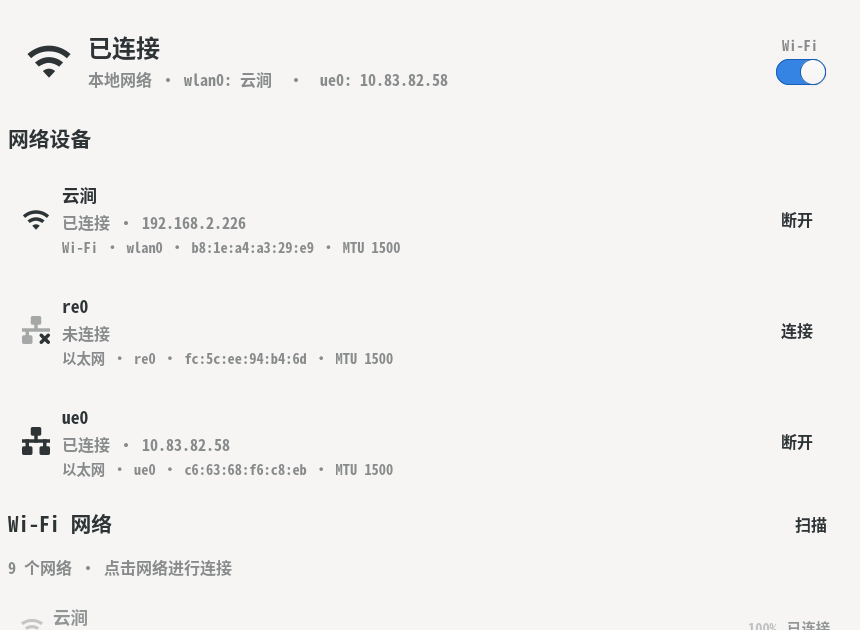
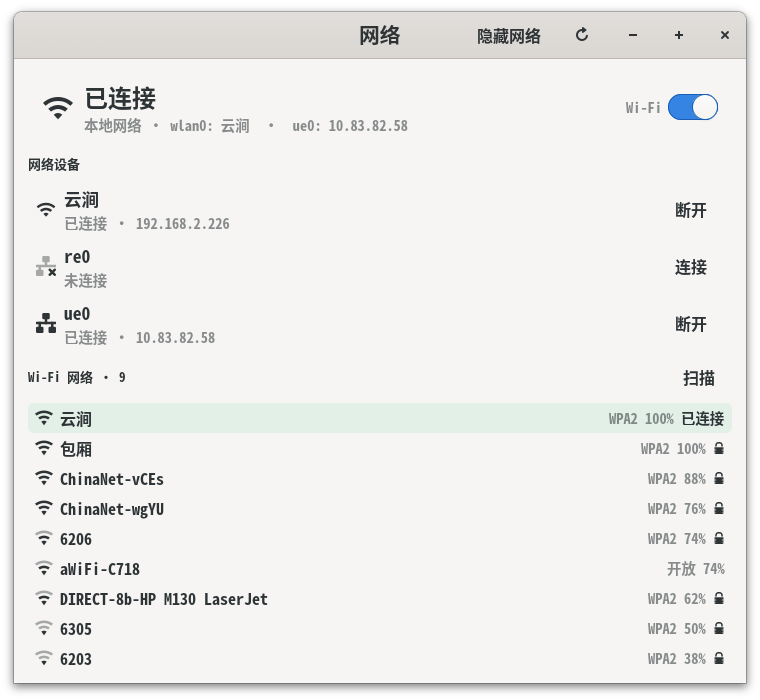
Compact GTK4 layout and refresh screenshot

diff --git a/crates/netcore-gui/src/app.rs b/crates/netcore-gui/src/app.rs
@@ -21,10 +21,13 @@ use tokio::sync::mpsc::UnboundedSender;
 use crate::client::{self, Request, UiEvent};
 
 const CSS: &str = "
-.netcore-hero { padding: 18px; }
-.netcore-device { padding: 14px; }
-.netcore-network-row { padding: 10px 12px; border-radius: 10px; }
-.netcore-banner { padding: 10px 12px; }
+.netcore-hero { padding: 10px 14px; }
+.netcore-device { padding: 4px 8px; border-radius: 8px; }
+.netcore-network-row { padding: 2px 6px; border-radius: 6px; min-height: 0; }
+.netcore-section-title { font-size: 13px; font-weight: bold; }
+.netcore-network-ssid { font-weight: 500; }
+.netcore-current { background-color: alpha(#2ec27e, 0.10); }
+.netcore-banner { padding: 6px 10px; }
 .netcore-banner-error { background-color: alpha(#e01b24, 0.16); }
 .netcore-banner-success { background-color: alpha(#2ec27e, 0.18); }
 ";
@@ -41,13 +44,13 @@ struct AppState {
 struct Ui {
     window: ApplicationWindow,
     scrolled: ScrolledWindow,
-    header_subtitle: Label,
     hero_icon: Image,
     hero_title: Label,
     hero_detail: Label,
     hero_spinner: Spinner,
     wifi_switch: gtk::Switch,
     devices_box: GtkBox,
+    wifi_title: Label,
     wifi_box: GtkBox,
     wifi_hint: Label,
     scan_button: Button,
@@ -79,22 +82,14 @@ fn build_window(application: &Application, bus: BusKind) {
     let window = ApplicationWindow::builder()
         .application(application)
         .title("网络")
-        .default_width(880)
-        .default_height(780)
+        .default_width(760)
+        .default_height(700)
         .build();
 
     let header = HeaderBar::new();
-    let title_box = GtkBox::new(Orientation::Vertical, 0);
     let title = Label::new(Some("网络"));
     title.add_css_class("title-4");
-    title.set_xalign(0.0);
-    let subtitle = Label::new(Some("正在连接 netcore…"));
-    subtitle.add_css_class("dim-label");
-    subtitle.add_css_class("caption");
-    subtitle.set_xalign(0.0);
-    title_box.append(&title);
-    title_box.append(&subtitle);
-    header.set_title_widget(Some(&title_box));
+    header.set_title_widget(Some(&title));
 
     let refresh_button = icon_button("view-refresh-symbolic", "刷新");
     header.pack_end(&refresh_button);
@@ -104,28 +99,30 @@ fn build_window(application: &Application, bus: BusKind) {
     header.pack_end(&hidden_button);
     window.set_titlebar(Some(&header));
 
-    let content = GtkBox::new(Orientation::Vertical, 14);
-    content.set_margin_top(16);
-    content.set_margin_bottom(16);
-    content.set_margin_start(22);
-    content.set_margin_end(22);
+    let content = GtkBox::new(Orientation::Vertical, 9);
+    content.set_margin_top(10);
+    content.set_margin_bottom(10);
+    content.set_margin_start(14);
+    content.set_margin_end(14);
 
-    let hero = GtkBox::new(Orientation::Horizontal, 16);
+    let hero = GtkBox::new(Orientation::Horizontal, 10);
     hero.add_css_class("card");
     hero.add_css_class("netcore-hero");
     let hero_icon = Image::from_icon_name("network-offline-symbolic");
-    hero_icon.set_pixel_size(46);
+    hero_icon.set_pixel_size(32);
+    hero_icon.set_valign(gtk::Align::Center);
     hero.append(&hero_icon);
-    let hero_text = GtkBox::new(Orientation::Vertical, 3);
+    let hero_text = GtkBox::new(Orientation::Vertical, 0);
     hero_text.set_hexpand(true);
     let hero_title = Label::new(Some("正在连接守护进程…"));
-    hero_title.add_css_class("title-2");
+    hero_title.add_css_class("title-3");
     hero_title.set_xalign(0.0);
     let hero_detail = Label::new(Some("netcore 网络管理器"));
     hero_detail.add_css_class("dim-label");
+    hero_detail.add_css_class("caption");
     hero_detail.set_xalign(0.0);
-    hero_detail.set_wrap(true);
-    hero_detail.set_max_width_chars(60);
+    hero_detail.set_ellipsize(gtk::pango::EllipsizeMode::End);
+    hero_detail.set_max_width_chars(70);
     let hero_spinner = Spinner::new();
     hero_spinner.set_visible(false);
     hero_text.append(&hero_title);
@@ -133,7 +130,7 @@ fn build_window(application: &Application, bus: BusKind) {
     hero_text.append(&hero_spinner);
     hero.append(&hero_text);
 
-    let switch_box = GtkBox::new(Orientation::Vertical, 4);
+    let switch_box = GtkBox::new(Orientation::Horizontal, 5);
     switch_box.set_valign(gtk::Align::Center);
     let wifi_label = Label::new(Some("Wi-Fi"));
     wifi_label.add_css_class("caption");
@@ -148,10 +145,10 @@ fn build_window(application: &Application, bus: BusKind) {
 
     let devices_title = section_label("网络设备");
     content.append(&devices_title);
-    let devices_box = GtkBox::new(Orientation::Vertical, 8);
+    let devices_box = GtkBox::new(Orientation::Vertical, 2);
     content.append(&devices_box);
 
-    let wifi_header = GtkBox::new(Orientation::Horizontal, 8);
+    let wifi_header = GtkBox::new(Orientation::Horizontal, 6);
     let wifi_title = section_label("Wi-Fi 网络");
     wifi_title.set_hexpand(true);
     let scan_button = Button::with_label("扫描");
@@ -163,10 +160,12 @@ fn build_window(application: &Application, bus: BusKind) {
 
     let wifi_hint = Label::new(Some("尚未扫描"));
     wifi_hint.add_css_class("dim-label");
+    wifi_hint.add_css_class("caption");
     wifi_hint.set_xalign(0.0);
     wifi_hint.set_wrap(true);
+    wifi_hint.set_visible(false);
     content.append(&wifi_hint);
-    let wifi_box = GtkBox::new(Orientation::Vertical, 6);
+    let wifi_box = GtkBox::new(Orientation::Vertical, 0);
     content.append(&wifi_box);
 
     let scrolled = ScrolledWindow::builder()
@@ -190,9 +189,9 @@ fn build_window(application: &Application, bus: BusKind) {
     banner.set_transition_type(gtk::RevealerTransitionType::SlideDown);
     banner.set_reveal_child(false);
     banner.set_child(Some(&banner_box));
-    banner.set_margin_start(22);
-    banner.set_margin_end(22);
-    banner.set_margin_bottom(12);
+    banner.set_margin_start(14);
+    banner.set_margin_end(14);
+    banner.set_margin_bottom(8);
 
     let root = GtkBox::new(Orientation::Vertical, 0);
     root.append(&scrolled);
@@ -202,13 +201,13 @@ fn build_window(application: &Application, bus: BusKind) {
     let ui = Rc::new(Ui {
         window: window.clone(),
         scrolled: scrolled.clone(),
-        header_subtitle: subtitle,
         hero_icon,
         hero_title,
         hero_detail,
         hero_spinner,
         wifi_switch: wifi_switch.clone(),
         devices_box,
+        wifi_title: wifi_title.clone(),
         wifi_box,
         wifi_hint,
         scan_button: scan_button.clone(),
@@ -331,14 +330,15 @@ fn handle_event(
             ui.hero_icon.set_icon_name(Some("network-offline-symbolic"));
             ui.hero_title.set_text("守护进程不可用");
             ui.hero_detail.set_text(&message);
-            ui.header_subtitle.set_text("无法连接 netcore");
             ui.wifi_switch.set_sensitive(false);
             ui.scan_button.set_sensitive(false);
             ui.hidden_button.set_sensitive(false);
             ui.scan_button.set_label("扫描");
             clear_box(&ui.devices_box);
             clear_box(&ui.wifi_box);
+            ui.wifi_title.set_text("Wi-Fi 网络");
             ui.wifi_hint.set_text("等待 netcore 守护进程启动…");
+            ui.wifi_hint.set_visible(true);
             show_banner(ui, true, &message);
         }
         UiEvent::Busy(busy) => {
@@ -392,10 +392,6 @@ fn render_snapshot(ui: &Rc<Ui>, state: &Rc<RefCell<AppState>>, snapshot: Manager
     ui.wifi_switch.set_active(snapshot.wifi_enabled);
     state.borrow_mut().updating_switch = false;
 
-    ui.header_subtitle.set_text(&format!(
-        "{} · netcore {} · {}",
-        snapshot.hostname, snapshot.version, snapshot.wpa_backend
-    ));
     ui.hero_icon
         .set_icon_name(Some(hero_icon(&snapshot, &snapshot.devices)));
     ui.hero_title.set_text(snapshot.state.label());
@@ -430,27 +426,34 @@ fn render_snapshot(ui: &Rc<Ui>, state: &Rc<RefCell<AppState>>, snapshot: Manager
         .iter()
         .find(|device| device.kind == DeviceKind::Wifi);
     let Some(wifi_device) = wifi_device else {
+        ui.wifi_title.set_text("Wi-Fi 网络");
         ui.wifi_hint.set_text("没有 Wi-Fi 设备");
+        ui.wifi_hint.set_visible(true);
         return;
     };
     if !snapshot.wifi_available {
+        ui.wifi_title.set_text("Wi-Fi 网络");
         ui.wifi_hint
             .set_text("wpa_supplicant 后端不可用；请检查 wpa_supplicant 服务");
+        ui.wifi_hint.set_visible(true);
         return;
     }
     if !snapshot.wifi_enabled {
+        ui.wifi_title.set_text("Wi-Fi 网络");
         ui.wifi_hint.set_text("Wi-Fi 已禁用");
+        ui.wifi_hint.set_visible(true);
         return;
     }
     if wifi_device.networks.is_empty() {
+        ui.wifi_title.set_text("Wi-Fi 网络");
         ui.wifi_hint
             .set_text("暂无扫描结果，点击“扫描”查找附近网络");
+        ui.wifi_hint.set_visible(true);
         return;
     }
-    ui.wifi_hint.set_text(&format!(
-        "{} 个网络 · 点击网络进行连接",
-        wifi_device.networks.len()
-    ));
+    ui.wifi_title
+        .set_text(&format!("Wi-Fi 网络 · {}", wifi_device.networks.len()));
+    ui.wifi_hint.set_visible(false);
     for network in &wifi_device.networks {
         let row = build_network_row(ui, wifi_device, network, &snapshot);
         ui.wifi_box.append(&row);
@@ -460,31 +463,28 @@ fn render_snapshot(ui: &Rc<Ui>, state: &Rc<RefCell<AppState>>, snapshot: Manager
 }
 
 fn build_device_card(_ui: &Rc<Ui>, device: &NetworkDevice, snapshot: &ManagerSnapshot) -> GtkBox {
-    let card = GtkBox::new(Orientation::Horizontal, 12);
+    let card = GtkBox::new(Orientation::Horizontal, 8);
     card.add_css_class("card");
     card.add_css_class("netcore-device");
+    card.set_tooltip_text(Some(&device_meta(device)));
     let icon = Image::from_icon_name(device_icon(device));
-    icon.set_pixel_size(28);
+    icon.set_pixel_size(20);
     icon.set_valign(gtk::Align::Center);
     card.append(&icon);
 
-    let text = GtkBox::new(Orientation::Vertical, 2);
+    let text = GtkBox::new(Orientation::Vertical, 0);
     text.set_hexpand(true);
+    text.set_valign(gtk::Align::Center);
     let name = Label::new(Some(&device_name(device)));
     name.add_css_class("heading");
     name.set_xalign(0.0);
     let state_text = Label::new(Some(&device_description(device)));
     state_text.add_css_class("dim-label");
+    state_text.add_css_class("caption");
     state_text.set_xalign(0.0);
-    state_text.set_wrap(true);
-    let meta = Label::new(Some(&device_meta(device)));
-    meta.add_css_class("caption");
-    meta.add_css_class("dim-label");
-    meta.set_xalign(0.0);
-    meta.set_wrap(true);
+    state_text.set_ellipsize(gtk::pango::EllipsizeMode::End);
     text.append(&name);
     text.append(&state_text);
-    text.append(&meta);
     card.append(&text);
 
     let action = match device.state {
@@ -531,27 +531,37 @@ fn build_network_row(
     let row = Button::new();
     row.add_css_class("flat");
     row.add_css_class("netcore-network-row");
-    let content = GtkBox::new(Orientation::Horizontal, 10);
+    row.set_tooltip_text(Some(&format!(
+        "{} · {} · {} MHz{}",
+        network.ssid,
+        network.security.label(),
+        network.frequency,
+        network
+            .bssid
+            .as_ref()
+            .map(|bssid| format!(" · {bssid}"))
+            .unwrap_or_default()
+    )));
+    let content = GtkBox::new(Orientation::Horizontal, 7);
     let icon = Image::from_icon_name(signal_icon(network.quality_percent()));
-    icon.set_pixel_size(22);
+    icon.set_pixel_size(18);
     icon.set_valign(gtk::Align::Center);
     content.append(&icon);
-    let text = GtkBox::new(Orientation::Vertical, 1);
-    text.set_hexpand(true);
     let ssid = Label::new(Some(&network.ssid));
     ssid.set_xalign(0.0);
-    ssid.add_css_class("heading");
+    ssid.set_hexpand(true);
+    ssid.set_ellipsize(gtk::pango::EllipsizeMode::End);
+    ssid.add_css_class("netcore-network-ssid");
+    content.append(&ssid);
     let security = Label::new(Some(if network.security == Security::Open {
-        "开放网络"
+        "开放"
     } else {
         network.security.label()
     }));
     security.set_xalign(0.0);
     security.add_css_class("caption");
     security.add_css_class("dim-label");
-    text.append(&ssid);
-    text.append(&security);
-    content.append(&text);
+    content.append(&security);
     let percent = Label::new(Some(&format!("{}%", network.quality_percent())));
     percent.add_css_class("caption");
     percent.add_css_class("dim-label");
@@ -562,10 +572,12 @@ fn build_network_row(
         badge.add_css_class("caption");
         badge.add_css_class("success");
         content.append(&badge);
-        row.set_sensitive(false);
+        row.add_css_class("netcore-current");
+        row.set_can_target(false);
+        row.set_can_focus(false);
     } else if network.security != Security::Open {
         let lock = Image::from_icon_name("changes-prevent-symbolic");
-        lock.set_pixel_size(14);
+        lock.set_pixel_size(12);
         content.append(&lock);
     }
     row.set_child(Some(&content));
@@ -738,7 +750,7 @@ fn clear_box(container: &GtkBox) {
 
 fn section_label(text: &str) -> Label {
     let label = Label::new(Some(text));
-    label.add_css_class("title-4");
+    label.add_css_class("netcore-section-title");
     label.set_xalign(0.0);
     label
 }
@@ -746,9 +758,10 @@ fn section_label(text: &str) -> Label {
 fn muted_label(text: &str) -> Label {
     let label = Label::new(Some(text));
     label.add_css_class("dim-label");
+    label.add_css_class("caption");
     label.set_xalign(0.0);
-    label.set_margin_top(4);
-    label.set_margin_bottom(4);
+    label.set_margin_top(2);
+    label.set_margin_bottom(2);
     label
 }
 
